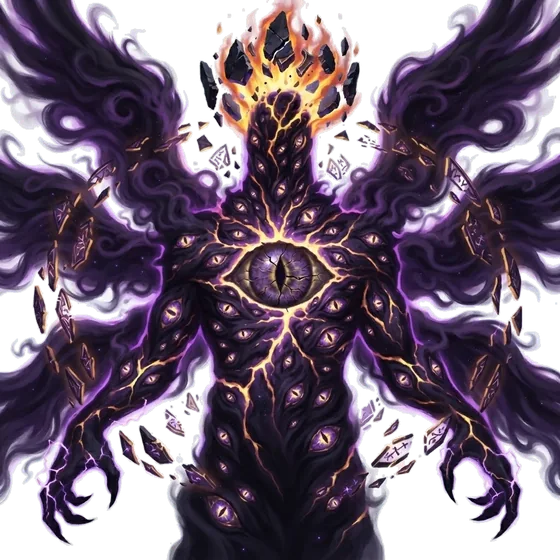
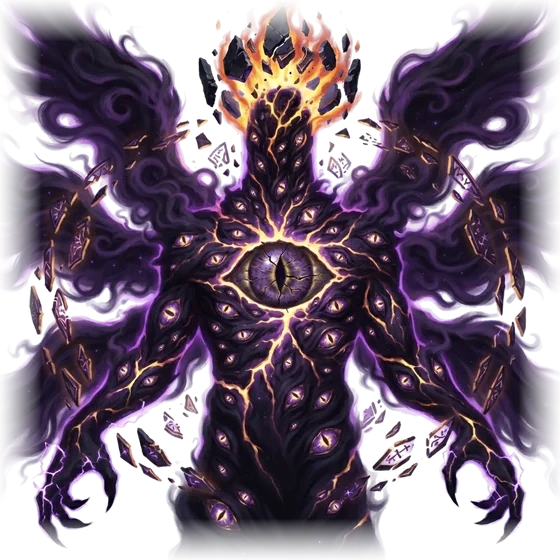
v393 : détourage propre de L'Abysse dans sa forme finale
Claude-Session: https://claude.ai/code/session_01G3jW2e2fkjyWdrMoKXNbtm

diff --git a/sw.js b/sw.js
@@ -1,7 +1,7 @@
 // Service worker d'ABYSSAL : l'application et les données sont mises en cache
 // pour fonctionner hors ligne après une première visite. Incrémenter VERSION à
 // chaque publication pour que les joueurs reçoivent la mise à jour.
-const VERSION = 'abyssal-v392';
+const VERSION = 'abyssal-v393';
 const ART_CACHE = 'abyssal-media';  // images du jeu : gardées entre les versions
 const FONT_CACHE = 'abyssal-fonts';
 const CORE = [

diff --git a/js/config.js b/js/config.js
@@ -1,7 +1,7 @@
 // Configuration centrale du jeu : raretés, tables de tirage, boosters,
 // économie, variantes, progression. Toute la balance se règle ici.
 
-export const VERSION = 'v392'; // même numéro que sw.js : affiché dans Réglages > À propos
+export const VERSION = 'v393'; // même numéro que sw.js : affiché dans Réglages > À propos
 
 export const RARITIES = [
   { key: 'C',  name: 'Commune',     short: 'C',  color: '#A3ADBD' },

diff --git a/tools/cutout-smoke.py b/tools/cutout-smoke.py
@@ -1,0 +1,31 @@
+# Usage : python3 tools/cutout-smoke.py source.jpg sortie.webp [fondu_bords=0.08]
+# v393 : détourage « couleur vers transparence » pour une figure sombre faite de fumée sur fond clair (L'Abysse, forme finale) :
+# chaque pixel devient transparent selon sa proximité avec la couleur du fond (fumées et lueurs pâles semi-transparentes,
+# plus de franges blanches), couleur dé-mélangée du fond, et fondu doux vers les bords quand la figure touche le cadre.
+import sys
+import numpy as np
+from PIL import Image, ImageFilter
+src, dst = sys.argv[1], sys.argv[2]
+edge = float(sys.argv[3]) if len(sys.argv) > 3 else 0.08
+a = np.asarray(Image.open(src).convert('RGB'), float)
+H, W, _ = a.shape
+# couleur du fond : médiane des quatre coins
+c = np.concatenate([a[:24, :24].reshape(-1, 3), a[:24, -24:].reshape(-1, 3), a[-24:, :24].reshape(-1, 3), a[-24:, -24:].reshape(-1, 3)])
+bg = np.median(c, axis=0)
+d = np.max(np.clip(bg - a, 0, None) / np.maximum(1, bg), axis=-1)  # assombrissement par rapport au fond (0 à 1), canal le plus touché
+d = np.asarray(Image.fromarray((d * 255).astype(np.uint8)).filter(ImageFilter.MedianFilter(3)), float) / 255  # bruit de compression du fond
+alpha = np.clip((d - 0.07) / 0.45, 0, 1) ** 0.8
+# fondu vers les bords de l'image (ailes coupées par le cadre)
+yy, xx = np.mgrid[0:H, 0:W]
+m = np.minimum.reduce([xx / W, (W - 1 - xx) / W, yy / H, (H - 1 - yy) / H])
+alpha = np.asarray(Image.fromarray((alpha * 255).astype(np.uint8)).filter(ImageFilter.GaussianBlur(0.5)), float) / 255
+# la couleur se dé-mélange avec l'opacité « vraie » (avant le fondu des bords, sinon les bords noircissent)
+with np.errstate(divide='ignore', invalid='ignore'):
+    col = np.clip((a - (1 - alpha[..., None]) * bg) / np.maximum(alpha[..., None], 0.25), 0, 255)
+alpha = alpha * np.clip(m / edge, 0, 1) ** 1.5
+im = Image.fromarray(np.dstack([col, alpha * 255]).astype(np.uint8), 'RGBA')
+ys, xs = np.where(alpha > 0.04)
+im = im.crop((max(0, xs.min() - 2), max(0, ys.min() - 2), min(W, xs.max() + 3), min(H, ys.max() + 3)))
+if im.height > 560: im = im.resize((round(im.width * 560 / im.height), 560), Image.LANCZOS)
+im.save(dst, 'WEBP', quality=84, alpha_quality=90, method=6)
+print(dst, im.size, 'fond', bg.round())

diff --git a/CLAUDE.md b/CLAUDE.md
@@ -22,7 +22,7 @@ Ce texte reprend tout ce qu'il faut savoir du projet. Ce fichier est lu automati
 - Le réseau de la session bloque github.io : pour vérifier la publication, passe par l'outil GitHub (déploiements Pages) ou demande une capture au propriétaire.
 
 ## 2. Routine de livraison
-1. Version : **ligne 4** de `js/config.js` **et** de `sw.js`, toujours le même numéro (`sed -i "4s/vX/vY/" js/config.js sw.js`). Actuellement **v392**.
+1. Version : **ligne 4** de `js/config.js` **et** de `sw.js`, toujours le même numéro (`sed -i "4s/vX/vY/" js/config.js sw.js`). Actuellement **v393**.
 2. Tests : `node --test tests/*.test.mjs` (239 tests, dont `tests/syntaxe.test.mjs` qui passe `node --check` sur chaque fichier de `js/` : les écrans ne sont importés par aucun autre test), `node tools/validate.mjs`. Si le combat ou l'équilibre change : `node tools/fuzz.mjs 300` (étage moyen ≈ 12 à 14 en normal).
 3. Vérification dans le navigateur avec Playwright (`/opt/node-tools/node_modules/playwright/index.mjs`, Chromium déjà installé), avec un serveur local `python3 -m http.server 8092` lancé dans le dossier. Tailles iPhone SE et iPhone 13. **L'écran d'ouverture attend un toucher** (« Touche l'écran pour entrer ») : dans les scripts, cliquer au milieu de l'écran (dans la fenêtre 390×664) avant tout le reste.
 4. Commit, push, réponse en français.
@@ -103,6 +103,7 @@ Ce texte reprend tout ce qu'il faut savoir du projet. Ce fichier est lu automati
 - Amis par pseudo (voir stats et collection), puis versus 1 contre 1 (Sceaux et combats façon Descente). Le propriétaire veut que le perdant **perde vraiment** une carte. Cadre conseillé si on le fait : mode « Duel à enjeu » séparé et consenti (duel normal sans perte à côté), mise de même rareté des deux côtés, favoris jamais mis en jeu, adversaires de niveau proche, accès après quelques jours et duels normaux (contre les comptes jetables et le trafic de cartes), uniquement entre joueurs présents ou amis ayant accepté (jamais sur une partie jouée par l'IA à la place d'un absent).
 
 ## 5. Décisions déjà prises
+- v393 : détourage de L'Abysse forme finale (`abysse-2`) refait (« horrible » : franges blanches dans la fumée) avec un nouvel outil **`tools/cutout-smoke.py`** (couleur vers transparence : opacité selon l'assombrissement par rapport au fond, fumée semi-transparente, fondu des bords quand la figure touche le cadre ; à utiliser pour les figures de fumée sur fond clair). Plan validé par le propriétaire, **à faire à l'arrivée de l'image du Booster de l'Abysse** : étage 100 = fin de la Descente (victoire, expédition close), Booster de l'Abysse (5 cartes : M+ , HR+, 3 R+, toutes en finition holo au moins ; 1re fois : une Secrète non possédée garantie ; ne s'achète pas), badge « Fond de l'Abysse » au classement, encart au vestibule (récompenses, record / 100), ligne dans « Comment ça marche », objectif Accueil dès le record 50.
 - v392 : **gardiens des étages 80 à 100**, `BOSS_ORDER` de 20 (au-delà, le cycle recommence) : Titan Endormi `titan` (`slumber` 3 tours, `sleepDmg` cumule les dégâts subis en dormant, `quake` au 4e tour : zone ×0,8 × (1 + 1,5 × part des PV perdus en dormant)), Jumeaux du Crépuscule `jumeaux` (le premier compagnon devient `twin`, 45 % des PV et 70 % de l'ATQ du gardien, figure `jumeaux-nuit` ; le survivant `grief` : ATQ ×1,35 et 25 % de PV), Juge des Sceaux `juge` (`verdict` : `st.forbid` = attack | skill | defend, interdit dans `actionsFor` jusqu'à sa prochaine action ; pastille « Interdit : … »), Bête de l'Apocalypse `bete` (+1 ATQ et +2 % de PV max par tour en phase 2, un tour sur deux sinon, la Brisure la fait rétrécir), **L'Abysse** `abysse` (étage 100, PV ×1,8, jamais déchaîné d'emblée, **3 phases** : 2/3 des PV → `ABYSS_ECHOES` (festin, givre, essaim, sentence, miroir, vœu), 1/3 → « Nuit sans fin » : ATQ ×1,4, nuit 8 % par tour (jamais mortelle, retenue par la Brisure), figure `abysse-2`, salle assombrie `.dv.abyss-night .dio`). Première victoire contre L'Abysse : titre « Vainqueur de l'Abysse », cadre `oeil`, 2 coffres abyssaux. Mesure (pilote automatique, 40 combats, gardiens durs) : la plupart 100 %, Jumeaux ~80 %, **Abysse ~50 %** (le plus dur), 14 à 19 tours.
 - v391 (tour de l'app demandé par le propriétaire) : script Playwright sur 17 écrans × 2 tailles × 2 profils (nouveau, avancé) : aucune erreur, aucun fichier manquant, aucun débordement. Corrigé : « Mon équipe » sur deux lignes (`.dc-teambtns`), « Ouvrir · ticket (1) » sur deux lignes (`.shop-buy` nowrap), bouton doré à deux lignes tassé. Fluidité (processeur ÷4) : l'écran Équipe bloquait 1,2 s (216 cartes d'un coup, à chaque ajout) → grille par paquets (`#tm-grid`) et **`content-visibility: auto` sur `.grid-cards > *`** (cartes hors écran non dessinées) : 3,2 s → 0,75 s de blocages cumulés en défilant tout l'écran. Le reste des écrans : < 0,3 s.
 - v390 : figures Gemini des gardiens des étages 55 à 75 intégrées (`miroirs`, `golem`, `peste`, `chasseur`, `voeux` : sources `store/bosses/`, `BOSS_FIG`, `BOSS_FIGS`, `sw.js`) ; `tools/cutout-white.py` gagne `--soft` (poussière et fumée pâles rendues semi-transparentes : Golem, Peste). Les 15 gardiens ont leur figure. Reste la livraison 2 : étages 80 à 95 et L'Abysse à l'étage 100.
